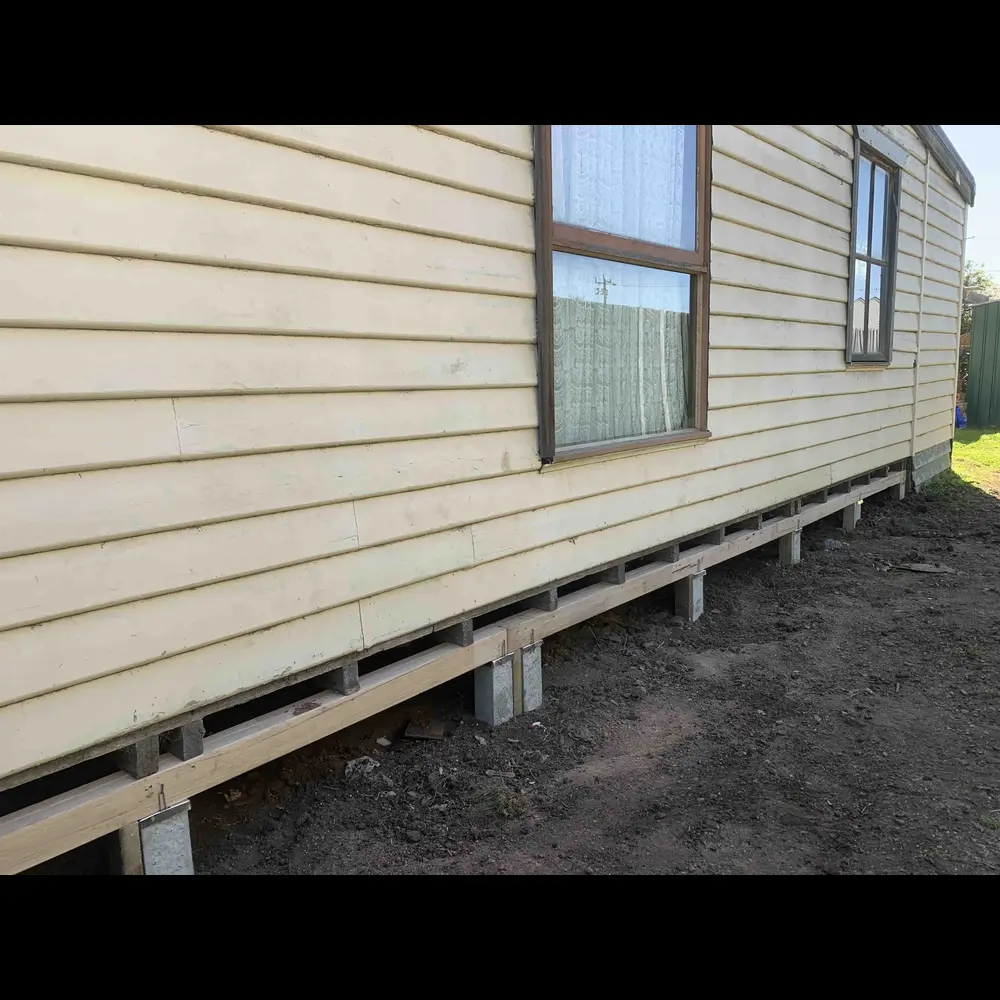
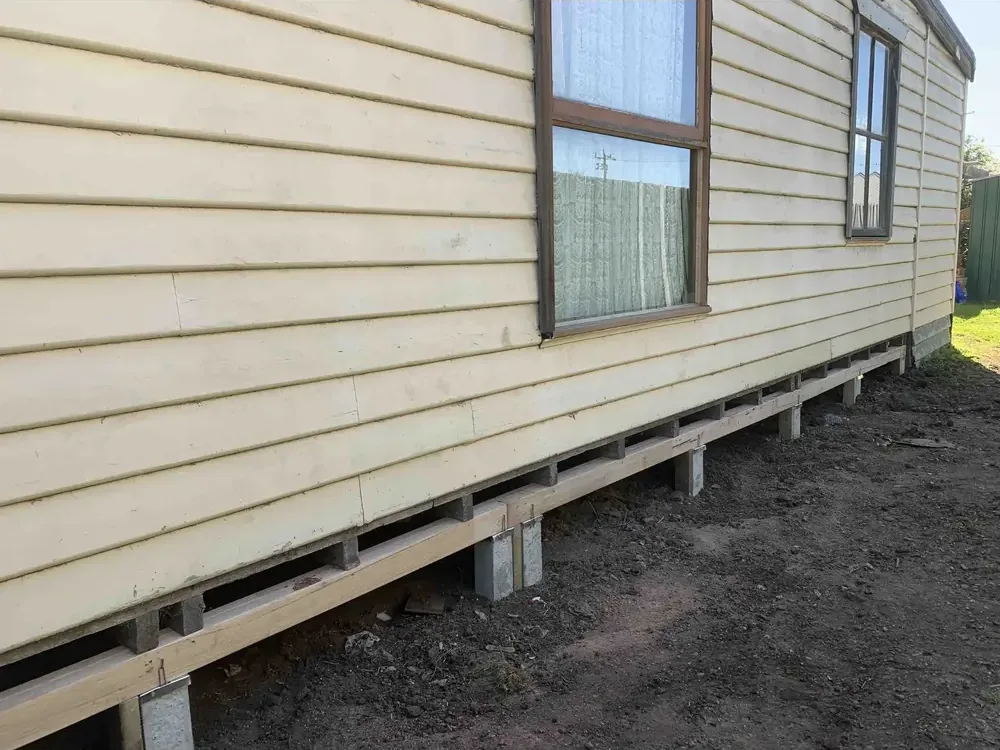
Crop black letterbox bars from 8 source images
Every 1000x1000 webp in Assets/ that had visible black bars top
and bottom (125px each, baked into the source) has been cropped
to 1000x750. The bars were showing through object-fit:cover on
the LP hero, the LP gallery, the LP before/after, plus the
gallery.html, reblocking-restumping.html, levelling-lifting.html
and stabilising-strengthening.html pages.

Cropped sources (all now 1000x750, 4:3):
- reblocking-restumping-exterior.webp (LP hero - already had updated variants too)
- reblocking-restumping-1.webp (LP gallery, service page gallery)
- reblocking-restumping-3.webp
- reblocking-restumping-4.webp
- reblocking-restumping-5.webp
- reblocking-restumping-whole-house.webp (LP before/after, service page hero)
- levelling-lifting-1.webp (levelling service page)
- stabilising-strengthening-1.webp (stabilising service page)

Regenerated the LP hero 640w + 800w variants from the cleaned
source so they're now 640x480 + 800x600 (was 640x640 + 800x800,
both inheriting the letterboxing).

Updated all width="1000" height="1000" HTML attrs to
width="1000" height="750" to match the new aspect ratio
(18 img tags across 4 files). Prevents CLS during initial load.

diff --git a/gallery.html b/gallery.html
@@ -265,10 +265,10 @@
     <div id="gallery-grid" class="grid grid-cols-12 gap-4 lg:gap-5">
       <!-- Reblocking -->
       <figure class="gallery-item col-span-12 md:col-span-8 lg:col-span-7 img-tone rounded-md overflow-hidden border border-brand-charcoal/10 bg-white" data-cat="reblocking">
-        <img src="Assets/reblocking-restumping-whole-house.webp" alt="Whole-house reblock in progress on a Melbourne weatherboard" class="w-full h-[320px] md:h-[440px] object-cover" loading="lazy" width="1000" height="1000" />
+        <img src="Assets/reblocking-restumping-whole-house.webp" alt="Whole-house reblock in progress on a Melbourne weatherboard" class="w-full h-[320px] md:h-[440px] object-cover" loading="lazy" width="1000" height="750" />
       </figure>
       <figure class="gallery-item col-span-12 md:col-span-4 lg:col-span-5 img-tone rounded-md overflow-hidden border border-brand-charcoal/10 bg-white" data-cat="reblocking">
-        <img src="Assets/reblocking-restumping-exterior.webp" alt="Exterior of weatherboard home reblocked back to level" class="w-full h-[320px] md:h-[440px] object-cover" loading="lazy" width="1000" height="1000" />
+        <img src="Assets/reblocking-restumping-exterior.webp" alt="Exterior of weatherboard home reblocked back to level" class="w-full h-[320px] md:h-[440px] object-cover" loading="lazy" width="1000" height="750" />
       </figure>
 
       <!-- Levelling -->
@@ -276,7 +276,7 @@
         <img src="Assets/house-jacked.jpg" alt="Weatherboard home jacked clear during a re-level" class="w-full h-[280px] object-cover" loading="lazy" width="960" height="720" />
       </figure>
       <figure class="gallery-item col-span-12 md:col-span-6 lg:col-span-4 img-tone rounded-md overflow-hidden border border-brand-charcoal/10 bg-white" data-cat="levelling">
-        <img src="Assets/levelling-lifting-1.webp" alt="Hydraulic jacks supporting a weatherboard during levelling" class="w-full h-[280px] object-cover" loading="lazy" width="1000" height="1000" />
+        <img src="Assets/levelling-lifting-1.webp" alt="Hydraulic jacks supporting a weatherboard during levelling" class="w-full h-[280px] object-cover" loading="lazy" width="1000" height="750" />
       </figure>
       <figure class="gallery-item col-span-12 md:col-span-12 lg:col-span-4 img-tone rounded-md overflow-hidden border border-brand-charcoal/10 bg-white" data-cat="levelling">
         <img src="Assets/house-corner-jacked.jpg" alt="Corner of weatherboard home jacked clear of failed timber stumps" class="w-full h-[280px] object-cover" loading="lazy" width="960" height="960" />
@@ -292,7 +292,7 @@
 
       <!-- Reblocking detail -->
       <figure class="gallery-item col-span-12 md:col-span-4 img-tone rounded-md overflow-hidden border border-brand-charcoal/10 bg-white" data-cat="reblocking">
-        <img src="Assets/reblocking-restumping-1.webp" alt="New concrete stumps installed under timber bearers" class="w-full h-[260px] object-cover" loading="lazy" width="1000" height="1000" />
+        <img src="Assets/reblocking-restumping-1.webp" alt="New concrete stumps installed under timber bearers" class="w-full h-[260px] object-cover" loading="lazy" width="1000" height="750" />
       </figure>
       <figure class="gallery-item col-span-12 md:col-span-4 img-tone rounded-md overflow-hidden border border-brand-charcoal/10 bg-white" data-cat="reblocking">
         <img src="Assets/reblocking-restumping-2.webp" alt="Sub-floor view of completed reblock with concrete stumps and timber bearers" class="w-full h-[260px] object-cover" loading="lazy" width="1000" height="1000" />
@@ -311,18 +311,18 @@
 
       <!-- Reblocking action -->
       <figure class="gallery-item col-span-12 md:col-span-4 img-tone rounded-md overflow-hidden border border-brand-charcoal/10 bg-white" data-cat="reblocking">
-        <img src="Assets/reblocking-restumping-3.webp" alt="Concrete stump installed under bearer mid-reblock" class="w-full h-[240px] object-cover" loading="lazy" width="1000" height="1000" />
+        <img src="Assets/reblocking-restumping-3.webp" alt="Concrete stump installed under bearer mid-reblock" class="w-full h-[240px] object-cover" loading="lazy" width="1000" height="750" />
       </figure>
       <figure class="gallery-item col-span-12 md:col-span-4 img-tone rounded-md overflow-hidden border border-brand-charcoal/10 bg-white" data-cat="reblocking">
-        <img src="Assets/reblocking-restumping-4.webp" alt="House jacked up clear for reblocking" class="w-full h-[240px] object-cover" loading="lazy" width="1000" height="1000" />
+        <img src="Assets/reblocking-restumping-4.webp" alt="House jacked up clear for reblocking" class="w-full h-[240px] object-cover" loading="lazy" width="1000" height="750" />
       </figure>
       <figure class="gallery-item col-span-12 md:col-span-4 img-tone rounded-md overflow-hidden border border-brand-charcoal/10 bg-white" data-cat="reblocking">
-        <img src="Assets/reblocking-restumping-5.webp" alt="Levelling check during a reblock" class="w-full h-[240px] object-cover" loading="lazy" width="1000" height="1000" />
+        <img src="Assets/reblocking-restumping-5.webp" alt="Levelling check during a reblock" class="w-full h-[240px] object-cover" loading="lazy" width="1000" height="750" />
       </figure>
 
       <!-- Stabilising -->
       <figure class="gallery-item col-span-12 md:col-span-7 img-tone rounded-md overflow-hidden border border-brand-charcoal/10 bg-white" data-cat="stabilising">
-        <img src="Assets/stabilising-strengthening-1.webp" alt="Stabilising work in progress on a residential structural element" class="w-full h-[280px] md:h-[360px] object-cover" loading="lazy" width="1000" height="1000" />
+        <img src="Assets/stabilising-strengthening-1.webp" alt="Stabilising work in progress on a residential structural element" class="w-full h-[280px] md:h-[360px] object-cover" loading="lazy" width="1000" height="750" />
       </figure>
       <figure class="gallery-item col-span-12 md:col-span-5 img-tone rounded-md overflow-hidden border border-brand-charcoal/10 bg-white" data-cat="stabilising">
         <img src="Assets/IMG_6553.webp" alt="Sub-floor structural support and reinforcement" class="w-full h-[280px] md:h-[360px] object-cover" loading="lazy" width="2500" height="1875" />

diff --git a/reblocking-restumping.html b/reblocking-restumping.html
@@ -363,7 +363,7 @@
 <!-- ============ HERO ============ -->
 <section class="relative overflow-hidden hero-grad text-brand-cream grain">
   <div class="absolute inset-0 opacity-[0.18] mix-blend-luminosity">
-    <img src="Assets/reblocking-restumping-whole-house.webp" alt="" class="w-full h-full object-cover" width="1000" height="1000" />
+    <img src="Assets/reblocking-restumping-whole-house.webp" alt="" class="w-full h-full object-cover" width="1000" height="750" />
   </div>
   <div class="absolute inset-0 bg-brand-charcoal/72"></div>
   <div class="relative max-w-7xl mx-auto px-5 lg:px-8 pt-16 pb-20 lg:pt-24 lg:pb-28">
@@ -537,7 +537,7 @@
 
 <!-- ============ FEATURED BAND ============ -->
 <section class="relative h-[380px] lg:h-[460px] overflow-hidden">
-  <img src="Assets/reblocking-restumping-exterior.webp" alt="Exterior of weatherboard home reblocked back to level" class="absolute inset-0 w-full h-full object-cover" width="1000" height="1000" />
+  <img src="Assets/reblocking-restumping-exterior.webp" alt="Exterior of weatherboard home reblocked back to level" class="absolute inset-0 w-full h-full object-cover" width="1000" height="750" />
   <div class="absolute inset-0 bg-gradient-to-r from-brand-charcoal/95 via-brand-charcoal/80 to-brand-charcoal/55"></div>
   <div class="relative max-w-7xl mx-auto px-5 lg:px-8 h-full flex items-center">
     <div class="max-w-xl">
@@ -567,19 +567,19 @@
     </div>
     <div class="grid grid-cols-12 gap-4 lg:gap-5">
       <div class="col-span-12 md:col-span-6 img-tone rounded-md overflow-hidden border border-brand-charcoal/10">
-        <img src="Assets/reblocking-restumping-1.webp" alt="Reblocking job in progress with new concrete stumps installed" class="w-full h-[280px] md:h-[360px] object-cover" width="1000" height="1000" />
+        <img src="Assets/reblocking-restumping-1.webp" alt="Reblocking job in progress with new concrete stumps installed" class="w-full h-[280px] md:h-[360px] object-cover" width="1000" height="750" />
       </div>
       <div class="col-span-12 md:col-span-6 img-tone rounded-md overflow-hidden border border-brand-charcoal/10">
         <img src="Assets/reblocking-restumping-2.webp" alt="Sub-floor view of completed reblock with concrete stumps and timber bearers" class="w-full h-[280px] md:h-[360px] object-cover" width="1000" height="1000" />
       </div>
       <div class="col-span-12 md:col-span-4 img-tone rounded-md overflow-hidden border border-brand-charcoal/10">
-        <img src="Assets/reblocking-restumping-3.webp" alt="Concrete stump installed under bearer" class="w-full h-[220px] object-cover" width="1000" height="1000" />
+        <img src="Assets/reblocking-restumping-3.webp" alt="Concrete stump installed under bearer" class="w-full h-[220px] object-cover" width="1000" height="750" />
       </div>
       <div class="col-span-12 md:col-span-4 img-tone rounded-md overflow-hidden border border-brand-charcoal/10">
-        <img src="Assets/reblocking-restumping-4.webp" alt="House jacked up clear for reblocking" class="w-full h-[220px] object-cover" width="1000" height="1000" />
+        <img src="Assets/reblocking-restumping-4.webp" alt="House jacked up clear for reblocking" class="w-full h-[220px] object-cover" width="1000" height="750" />
       </div>
       <div class="col-span-12 md:col-span-4 img-tone rounded-md overflow-hidden border border-brand-charcoal/10">
-        <img src="Assets/reblocking-restumping-5.webp" alt="Levelling check during a reblock" class="w-full h-[220px] object-cover" width="1000" height="1000" />
+        <img src="Assets/reblocking-restumping-5.webp" alt="Levelling check during a reblock" class="w-full h-[220px] object-cover" width="1000" height="750" />
       </div>
     </div>
   </div>

diff --git a/levelling-lifting.html b/levelling-lifting.html
@@ -309,7 +309,7 @@
 
 <section class="relative overflow-hidden hero-grad text-brand-cream grain">
   <div class="absolute inset-0 opacity-[0.18] mix-blend-luminosity">
-    <img src="Assets/levelling-lifting-1.webp" alt="" class="w-full h-full object-cover" width="1000" height="1000" />
+    <img src="Assets/levelling-lifting-1.webp" alt="" class="w-full h-full object-cover" width="1000" height="750" />
   </div>
   <div class="absolute inset-0 bg-brand-charcoal/72"></div>
   <div class="relative max-w-7xl mx-auto px-5 lg:px-8 pt-16 pb-20 lg:pt-24 lg:pb-28">
@@ -473,7 +473,7 @@
 </section>
 
 <section class="relative h-[380px] lg:h-[460px] overflow-hidden">
-  <img src="Assets/levelling-lifting-1.webp" alt="House lifted on hydraulic jacks ready for re-levelling" class="absolute inset-0 w-full h-full object-cover" width="1000" height="1000" />
+  <img src="Assets/levelling-lifting-1.webp" alt="House lifted on hydraulic jacks ready for re-levelling" class="absolute inset-0 w-full h-full object-cover" width="1000" height="750" />
   <div class="absolute inset-0 bg-gradient-to-r from-brand-charcoal/95 via-brand-charcoal/80 to-brand-charcoal/55"></div>
   <div class="relative max-w-7xl mx-auto px-5 lg:px-8 h-full flex items-center">
     <div class="max-w-xl">
@@ -500,7 +500,7 @@
     </div>
     <div class="grid grid-cols-12 gap-4 lg:gap-5">
       <div class="col-span-12 md:col-span-7 img-tone rounded-md overflow-hidden border border-brand-charcoal/10">
-        <img src="Assets/levelling-lifting-1.webp" alt="House mid-lift with hydraulic jacks and timber packers in place" class="w-full h-[280px] md:h-[400px] object-cover" width="1000" height="1000" />
+        <img src="Assets/levelling-lifting-1.webp" alt="House mid-lift with hydraulic jacks and timber packers in place" class="w-full h-[280px] md:h-[400px] object-cover" width="1000" height="750" />
       </div>
       <div class="col-span-12 md:col-span-5 grid grid-cols-1 gap-4 lg:gap-5">
         <div class="img-tone rounded-md overflow-hidden border border-brand-charcoal/10">

diff --git a/stabilising-strengthening.html b/stabilising-strengthening.html
@@ -309,7 +309,7 @@
 
 <section class="relative overflow-hidden hero-grad text-brand-cream grain">
   <div class="absolute inset-0 opacity-[0.18] mix-blend-luminosity">
-    <img src="Assets/stabilising-strengthening-1.webp" alt="" class="w-full h-full object-cover" width="1000" height="1000" />
+    <img src="Assets/stabilising-strengthening-1.webp" alt="" class="w-full h-full object-cover" width="1000" height="750" />
   </div>
   <div class="absolute inset-0 bg-brand-charcoal/72"></div>
   <div class="relative max-w-7xl mx-auto px-5 lg:px-8 pt-16 pb-20 lg:pt-24 lg:pb-28">
@@ -345,7 +345,7 @@
       </div>
       <div class="lg:col-span-5 relative">
         <div class="img-tone rounded-md overflow-hidden border border-brand-cream/15 shadow-rust-lg">
-          <img src="Assets/stabilising-strengthening-1.webp" alt="Stabilising work on a residential structural element" class="w-full h-[420px] lg:h-[520px] object-cover" width="1000" height="1000" />
+          <img src="Assets/stabilising-strengthening-1.webp" alt="Stabilising work on a residential structural element" class="w-full h-[420px] lg:h-[520px] object-cover" width="1000" height="750" />
         </div>
       </div>
     </div>
@@ -501,7 +501,7 @@
     </div>
     <div class="grid grid-cols-12 gap-4 lg:gap-5">
       <div class="col-span-12 md:col-span-7 img-tone rounded-md overflow-hidden border border-brand-charcoal/10">
-        <img src="Assets/stabilising-strengthening-1.webp" alt="Stabilising work in progress on a residential structural element" class="w-full h-[280px] md:h-[400px] object-cover" width="1000" height="1000" />
+        <img src="Assets/stabilising-strengthening-1.webp" alt="Stabilising work in progress on a residential structural element" class="w-full h-[280px] md:h-[400px] object-cover" width="1000" height="750" />
       </div>
       <div class="col-span-12 md:col-span-5 grid grid-cols-1 gap-4 lg:gap-5">
         <div class="img-tone rounded-md overflow-hidden border border-brand-charcoal/10">

diff --git a/reblocking-quote/index.html b/reblocking-quote/index.html
@@ -440,7 +440,7 @@
               <source media="(max-width: 1023px)" srcset="../Assets/reblocking-restumping-exterior-800.webp" type="image/webp">
               <img src="../Assets/reblocking-restumping-exterior.webp"
                    alt="Weatherboard home freshly reblocked by MHB Reblocking, exterior view"
-                   width="1000" height="1000"
+                   width="1000" height="750"
                    loading="eager" fetchpriority="high" decoding="async">
             </picture>
             <div class="hero__media-caption">
